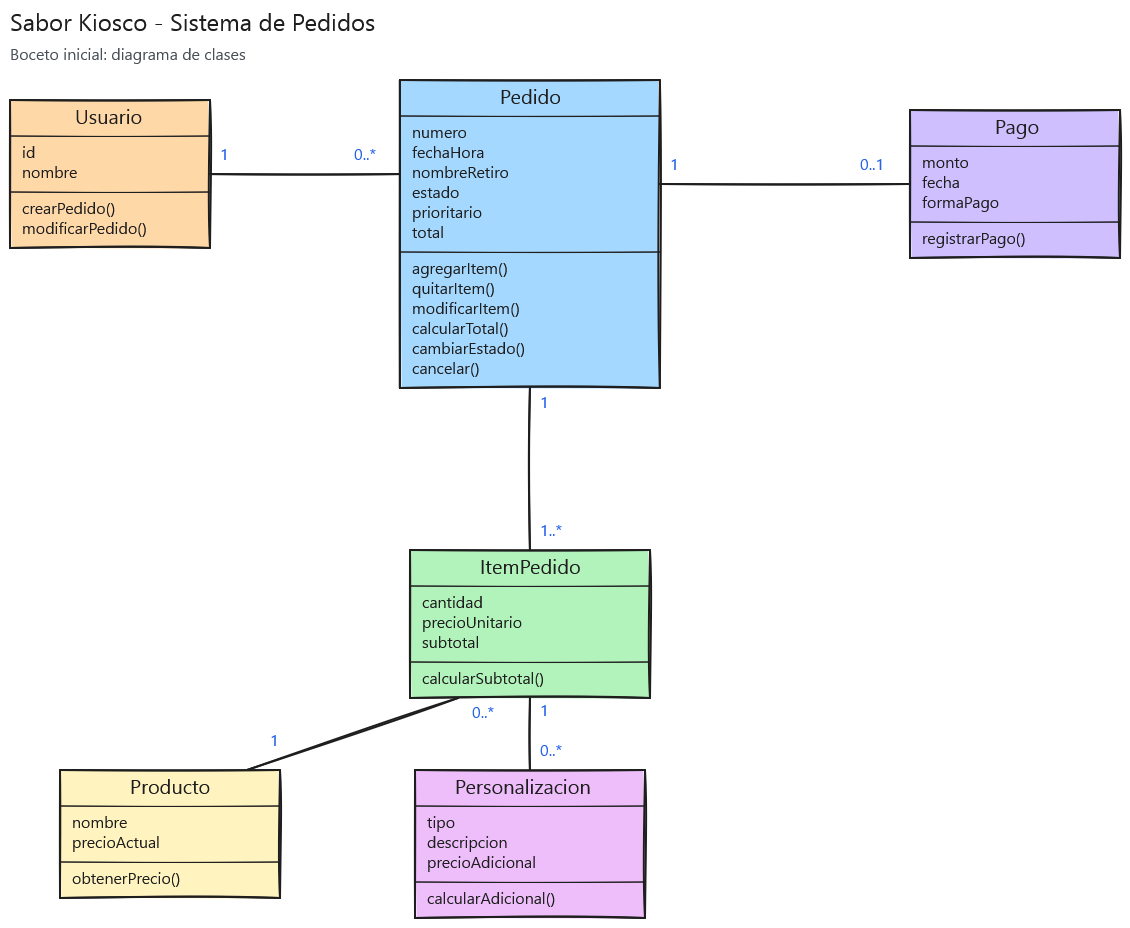
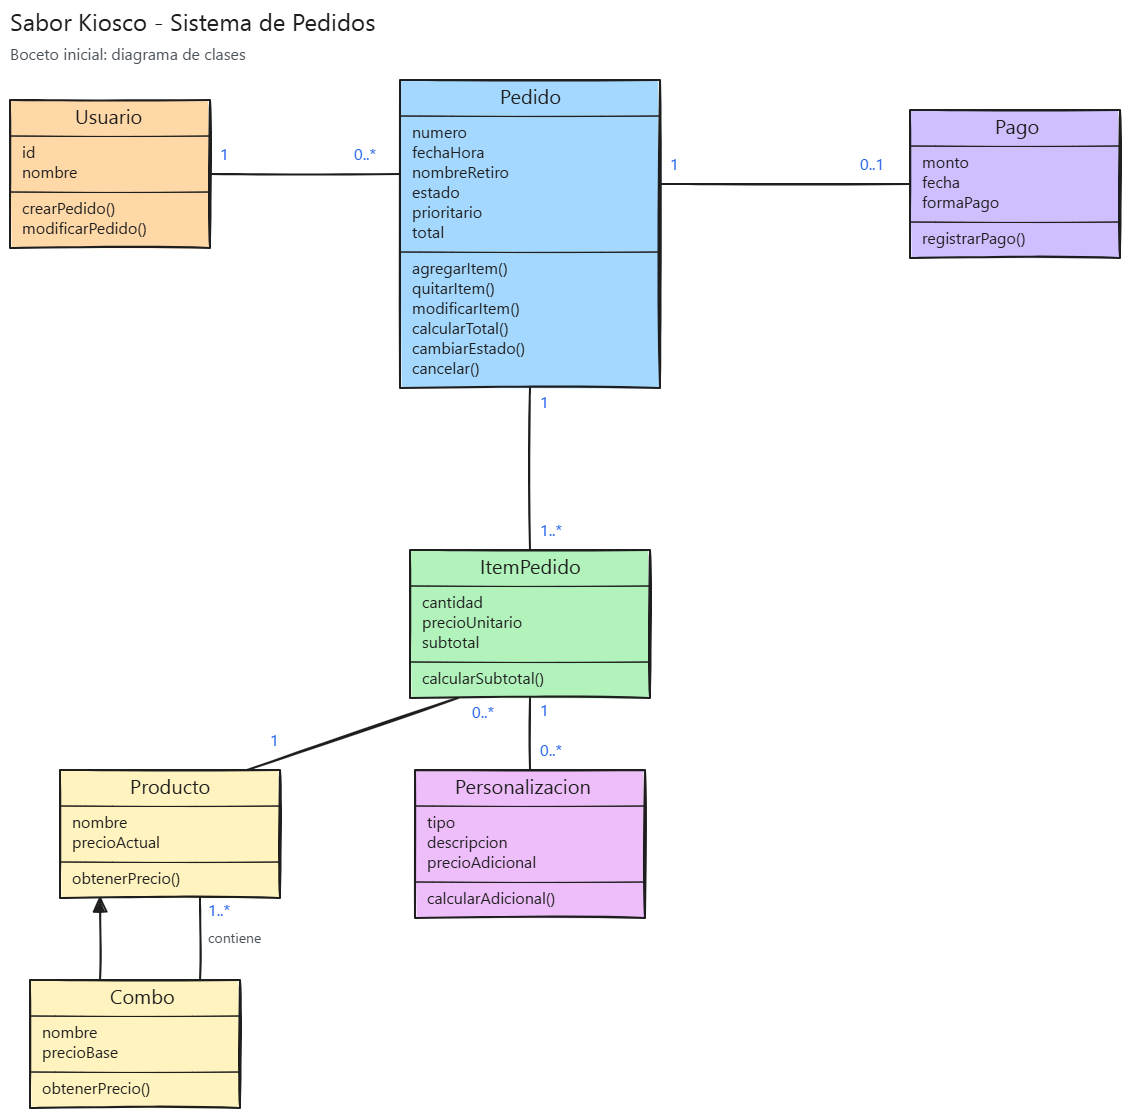
Actualiza boceto de clases incorporando Combo

diff --git a/changelog.md b/changelog.md
@@ -16,3 +16,28 @@ Si una PR está asociada a más de una Issue, pueden indicarse todas las Issues 
 - [feature/add-use-case-2] Actualización de las casos de uso.
   Issue(s): [#3](link-issue), [#5](link-issue)
   PR: [#6](link-pr) - @usuario (Modelador de Casos de Uso)
+
+
+- [feature/diseniador-clases-add-boceto-inicial] Restaura `README.md` tomando como referencia la versión vigente de `develop`, corrigiendo una eliminación previa del archivo.
+
+  Issue(s): [#44](https://github.com/cmariano93-netizen/SistemaPedidos/issues/44)
+
+  PR: [#43](https://github.com/cmariano93-netizen/SistemaPedidos/pull/43) - @neith18 (Diseñadora de Clases Iniciales)
+
+- [feature/diseniador-clases-add-boceto-inicial] Incorpora y actualiza `changelog.md` con la trazabilidad correspondiente a la tarea, vinculando la Issue y la PR.
+
+  Issue(s): [#44](https://github.com/cmariano93-netizen/SistemaPedidos/issues/44)
+
+  PR: [#43](https://github.com/cmariano93-netizen/SistemaPedidos/pull/43) - @neith18 (Diseñadora de Clases Iniciales)
+
+- [feature/diseniador-clases-add-boceto-inicial] Resuelve el conflicto de integración de `changelog.md` con `develop`, conservando los cambios requeridos de ambas ramas.
+
+  Issue(s): [#44](https://github.com/cmariano93-netizen/SistemaPedidos/issues/44)
+
+  PR: [#43](https://github.com/cmariano93-netizen/SistemaPedidos/pull/43) - @neith18 (Diseñadora de Clases Iniciales)
+
+- [feature/diseniador-clases-add-boceto-inicial] Actualiza el boceto inicial de clases incorporando `Combo` como especialización de `Producto` y su composición por uno o más productos. Actualiza las representaciones PlantUML, Excalidraw e imagen.
+
+  Issue(s): [#44](https://github.com/cmariano93-netizen/SistemaPedidos/issues/44)
+
+  PR: [#43](https://github.com/cmariano93-netizen/SistemaPedidos/pull/43) - @neith18 (Diseñadora de Clases Iniciales)
